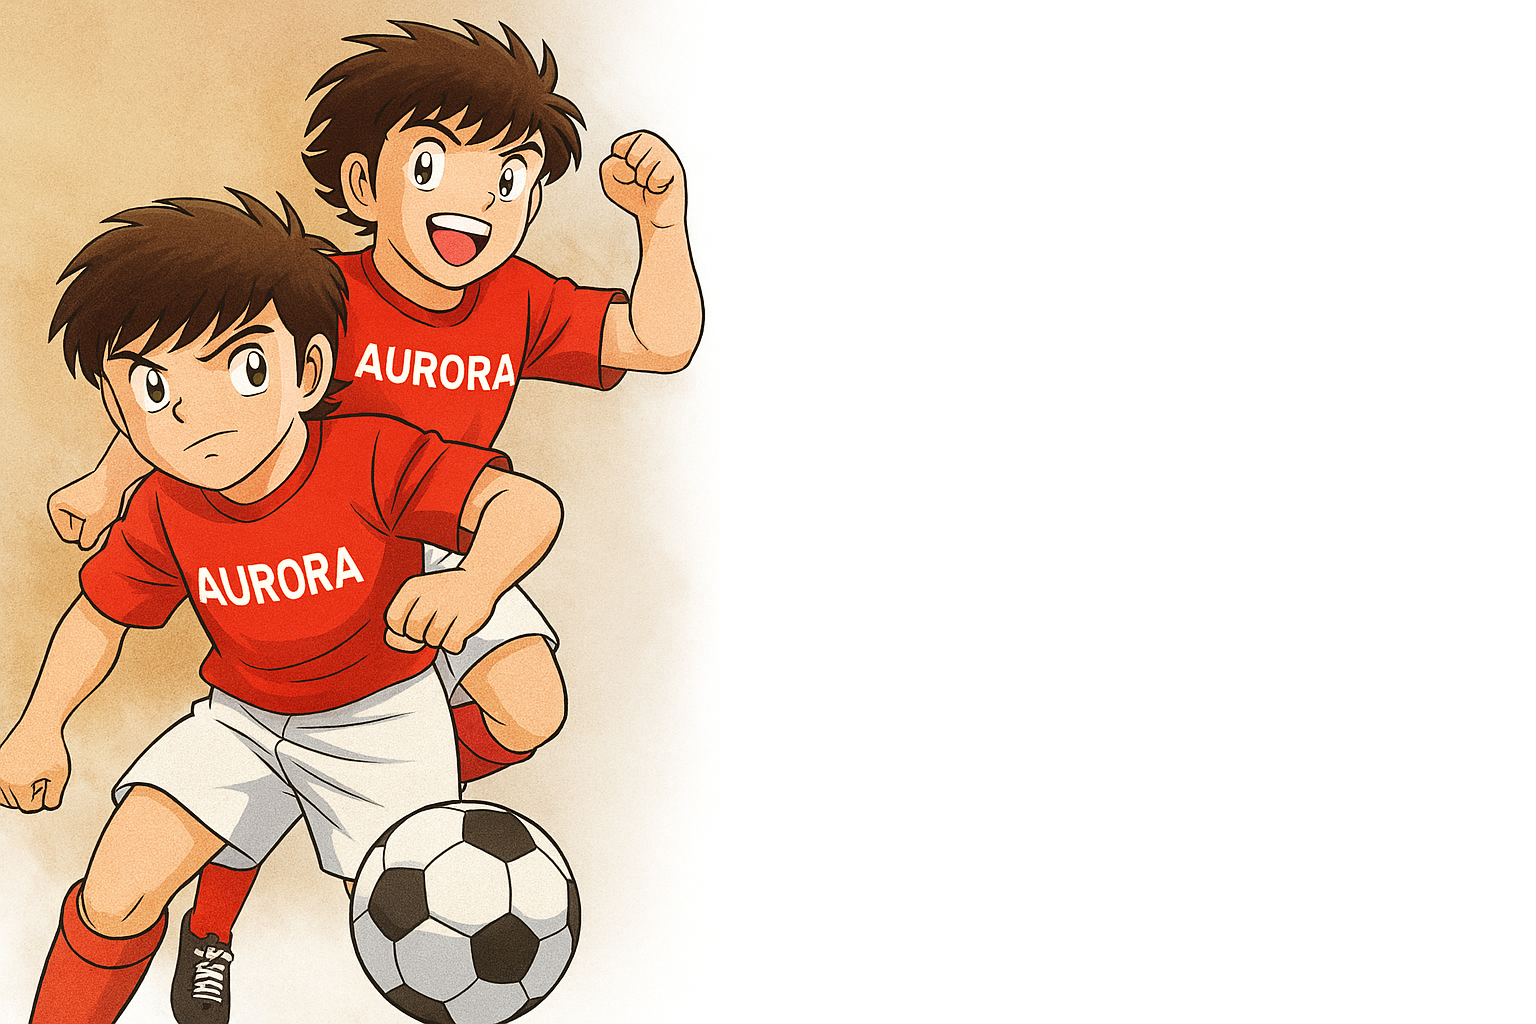
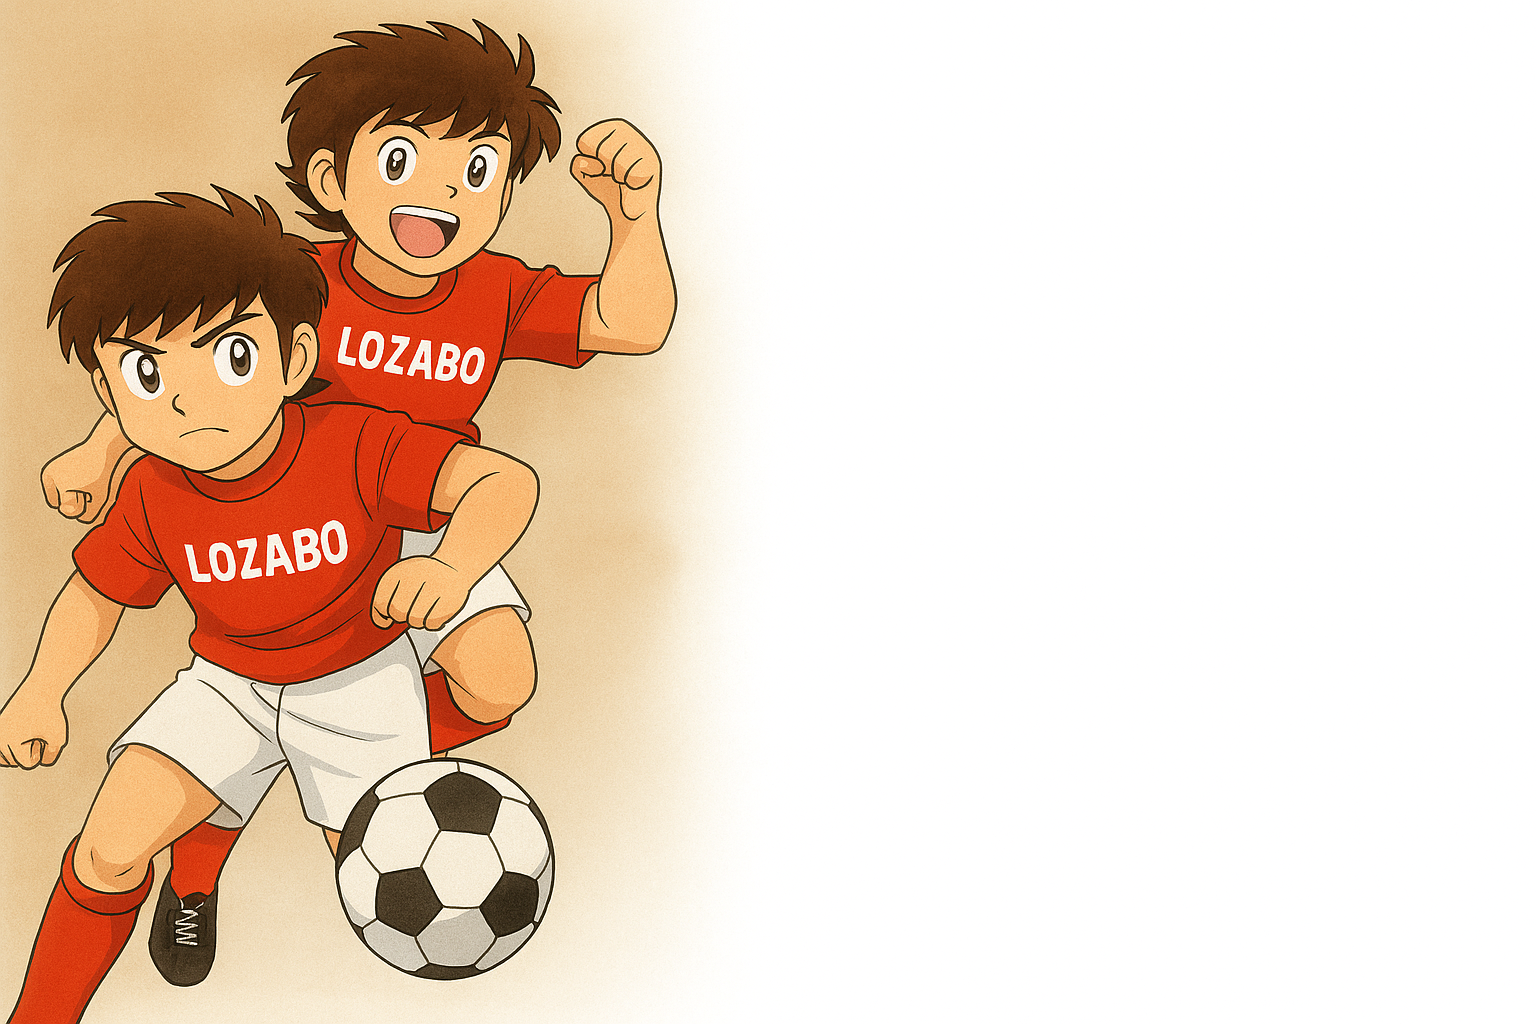
update content

Changed region(s): [[0.0, 0.0, 0.4688, 1.0], [0.0312, 0.0312, 0.125, 0.1562]]

diff --git a/index.html b/index.html
@@ -1,64 +1,75 @@
 <!DOCTYPE html>
 <html lang="it-IT">
 <head>
-    <meta charset="UTF-8">
-    <meta name="viewport" content="width=device-width, initial-scale=1, maximum-scale=1">
-    <title>Aurora Milano – Portale Documenti</title>
-    <link rel="stylesheet" type="text/css" href="./css/main.css">    
+  <meta charset="UTF-8">
+  <meta name="viewport" content="width=device-width, initial-scale=1">
+  <title>Lozabo Milano – Portale Documenti</title>
+  <link rel="stylesheet" href="./css/main.css">
 </head>
 
 <body>
 <div class="container">
 
-    <!-- HEADER -->
-    <header>
-        <h1>Aurora Milano</h1>
-        <p class="intro">Portale documenti, materiali e comunicazioni interne</p>
-    </header>
+  <header>
+    <h1>Lozabo Milano</h1>
+    <p class="intro">Portale documenti, materiali e comunicazioni interne</p>
+  </header>
 
-    <!-- MAIN -->
-    <main>
+  <main>
+    <h2 class="main-title">Sezioni del Portale</h2>
 
-        <h2 class="main-title">Sezioni del Portale</h2>
+    <!-- SAFEGUARDING -->
+    <section class="section-box">
+      <h3>Safeguarding</h3>
+      <ul class="link-list">
+        <li><a href="/safeguarding-referente.html">I riferimenti del Referente</a></li>
+        <li><a href="/safeguarding-regolamento.html">Regolamento interno</a></li>
+        <li><a href="/safeguarding-codice-condotta.html">Codice di condotta</a></li>
+        <li><a href="/modello-organizzativo.html">Modello Organizzativo lozabo Milano</a></li>
+        <li><a href="/codice-etico.html">Codice Etico adottato</a></li>
+        <li><a href="/segnalazioni.html">Materiali per la segnalazione</a></li>
+      </ul>
+    </section>
 
-        <!-- SAFEGUARDING -->
-        <section class="section-box">
-            <h3>Safeguarding</h3>
-            <ul class="link-list">
-                <li><a href="/safeguarding-documenti.html">I riferimenti del Referente</a></li>
-                <li><a href="/safeguarding-documenti.html">Regolamento interno</a></li>
-                <li><a href="/safeguarding-documenti.html">Codice di condotta</a></li>
-                <li><a href="/safeguarding-documenti.html">Il Modello Organizzativo adottato</a></li>
-                <li><a href="/safeguarding-documenti.html">Il Codice Etico adottato</a></li>
-                <li><a href="/safeguarding-documenti.html">Materiali per la segnalazione</a></li>
-            </ul>
-        </section>
+    <!-- DOCUMENTI ALLENATORI -->
+    <section class="section-box">
+      <h3>Documenti Allenatori</h3>
+      <ul class="link-list">
+        <li><a href="/documenti-allenatori.html">Documenti Allenatori</a></li>
+        <li><a href="/newsletter-allenatori.html">Newsletter Animatori</a></li>
+        <li><a href="/shorts-allenatori.html">Shorts Allenatori</a></li>
+      </ul>
+    </section>
 
-        <!-- DOCUMENTI ALLENATORI -->
-        <section class="section-box">
-            <h3>Documenti Allenatori</h3>
-            <ul class="link-list">
-                <li><a href="/materiali-bambini.html">Documenti Bambini</a></li>
-                <li><a hreF="/newsletter-allenatori.html">Newsletter Allenatori</a></li>
-                <li><a href="/shorts-allenatori.html">Shorts Allenatori</a></li>
-            </ul>
-        </section>
+    <!-- DOCUMENTI ATLETI -->
+    <section class="section-box">
+      <h3>Documenti Atleti</h3>
+      <ul class="link-list">
+        <li><a href="/documenti-atleti.html">Documenti Atleti</a></li>
+        <li><a href="/newsletter-atleti.html">Newsletter Atleti</a></li>
+        <li><a href="/shorts-atleti.html">Shorts Atleti</a></li>
+      </ul>
+    </section>
 
-        <!-- DOCUMENTI ATLETI -->
-        <section class="section-box">
-            <h3>Documenti Atleti</h3>
-            <ul class="link-list">
-                <li><a href="/documenti-atleti.html">Documenti Atleti</a></li>
-                <li><a href="/videopillole-atleti.html">Videopillole per Atleti</a></li>
-                <li><a href="/shorts-atleti.html">Shorts Atleti</a></li>
-            </ul>
-        </section>
+    <!-- lozabo MILANO -->
+    <section class="section-box">
+      <h3>lozabo Milano</h3>
+      <ul class="link-list">
+        <li><a href="/newsletter-lozabo.html">Newsletter lozabo</a></li>
+        <li><a href="/fotogallery.html">Fotogallery</a></li>
+      </ul>
+    </section>
 
-        <!-- DOCUMENTI AURORA -->
-        <section class="section-box">
-        </section>
+  </main>
 
-    </main>
+  <footer>
+    <p>
+      Contatti:
+      <a href="mailto:segreteria@lozabomilano.it">segreteria@lozabomilano.it</a>
+    </p>
+  </footer>
+
 </div>
 </body>
 </html>
+``

diff --git a/newsletter-aurora.html b/newsletter-aurora.html
@@ -1,43 +1,40 @@
 <!DOCTYPE html>
 <html lang="it-IT">
 <head>
-    <meta charset="UTF-8">
-    <meta name="viewport" content="width=device-width, initial-scale=1, maximum-scale=1">
-    <title>Newsletter Aurora – Aurora Milano</title>
-    <link rel="stylesheet" type="text/css" href="./css/main.css">    
-    <link rel="stylesheet" type="text/css" href="./css/newsletter-aurora.css">
+  <meta charset="UTF-8">
+  <meta name="viewport" content="width=device-width, initial-scale=1">
+  <title>Newsletter lozabo – lozabo Milano</title>
+  <link rel="stylesheet" href="./css/main.css">
+  <link rel="stylesheet" href="./css/newsletter-lozabo.css">
 </head>
 
 <body>
-
 <div class="container">
 
-    <header>
-        <h1>Newsletter Aurora</h1>
-        <p class="intro">Comunicazioni generali della società Aurora Milano</p>
-    </header>
+  <header>
+    <h1>Newsletter lozabo</h1>
+    <p class="intro">Comunicazioni generali della società lozabo Milano</p>
+  </header>
 
-    <main>
+  <main>
+    <section class="section-box newsletter-lozabo-box">
+      <h3>Archivio Newsletter</h3>
+      <ul class="link-list">
+        <li>/newsletter/pdf/lozabo-01.pdf</li>
+        <li>/newsletter/pdf/lozabo-02.pdflozabo 02 – Eventi e aggiornamenti</a></li>
+        <li>/newsletter/pdf/lozabo-03.pdf</li>
+        <li>/newsletter/pdf/lozabo-04.pdflozabo 04 – Comunicazioni ufficiali</a></li>
+      </ul>
+    </section>
+  </main>
 
-        <section class="section-box newsletter-aurora-box">
-            <h3>Archivio Newsletter</h3>
-            <ul class="link-list">
-                <li><a href="/newsletter/pdf/aurora-01.pdf">Aurora 01 – Comunicazioni societarie</a></li>
-                <li><a href="/newsletter/pdf/aurora-02.pdf">Aurora 02 – Eventi e aggiornamenti</a></li>
-                <li><a href="/newsletter/pdf/aurora-03.pdf">Aurora 03 – Informative operative</a></li>
-                <li><a hreF="/newsletter/pdf/aurora-04.pdf">Aurora 04 – Comunicazioni ufficiali</a></li>
-            </ul>
-        </section>
-
-    </main>
-
-    <footer>
-        <p>Per informazioni:
-            mailto:segreteria@auroramilano.itsegreteria@auroramilano.it</a>
-        </p>
-    </footer>
+  <footer>
+    <p>
+      Contatti:
+      segreteria@lozabomilano.itsegreteria@lozabomilano.it</a>
+    </p>
+  </footer>
 
 </div>
-
 </body>
 </html>

diff --git a/videopillole-atleti.html b/videopillole-atleti.html
@@ -3,7 +3,7 @@
 <head>
     <meta charset="UTF-8">
     <meta name="viewport" content="width=device-width, initial-scale=1, maximum-scale=1">
-    <title>Videopillole per Atleti - ASD Aurora Milano</title>
+    <title>Videopillole per Atleti - ASD lozabo Milano</title>
     <link rel="stylesheet" href="css/videopillole-atleti.css">
 </head>
 <body>
@@ -203,7 +203,7 @@
         </main>
 
         <footer>
-            <p>Hai suggerimenti per nuove videopillole? <a href="mailto:staff@auroramilano.it">staff@auroramilano.it</a></p>
+            <p>Hai suggerimenti per nuove videopillole? <a href="mailto:staff@lozabomilano.it">staff@lozabomilano.it</a></p>
         </footer>
     </div>
 </body>

diff --git a/safeguarding-documenti.html b/safeguarding-documenti.html
@@ -3,7 +3,7 @@
 <head>
     <meta charset="UTF-8">
     <meta name="viewport" content="width=device-width, initial-scale=1, maximum-scale=1">
-    <title>Documenti Safeguarding - ASD Aurora Milano</title>
+    <title>Documenti Safeguarding - ASD lozabo Milano</title>
     <link rel="stylesheet" href="css/safeguarding-documenti.css">
 </head>
 <body>
@@ -81,7 +81,7 @@
         </main>
 
         <footer>
-            <p>Per informazioni: <a href="mailto:safeguarding@auroramilano.it">safeguarding@auroramilano.it</a></p>
+            <p>Per informazioni: <a href="mailto:safeguarding@lozabomilano.it">safeguarding@lozabomilano.it</a></p>
         </footer>
     </div>
 </body>

diff --git a/newsletter-allenatori.html b/newsletter-allenatori.html
@@ -3,7 +3,7 @@
 <head>
     <meta charset="UTF-8">
     <meta name="viewport" content="width=device-width, initial-scale=1, maximum-scale=1">
-    <title>Newsletter Allenatori – Aurora Milano</title>
+    <title>Newsletter Allenatori – lozabo Milano</title>
     <link rel="stylesheet" type="text/css" href="./css/main.css">    
     <link rel="stylesheet" type="text/css" href="./css/newsletter-allenatori.css">
 </head>
@@ -34,7 +34,7 @@
 
     <footer>
         <p>Per informazioni:
-            mailto:segreteria@auroramilano.itsegreteria@auroramilano.it</a>
+            mailto:segreteria@lozabomilano.itsegreteria@lozabomilano.it</a>
         </p>
     </footer>
 

diff --git a/documenti-atleti.html b/documenti-atleti.html
@@ -3,7 +3,7 @@
 <head>
     <meta charset="UTF-8">
     <meta name="viewport" content="width=device-width, initial-scale=1, maximum-scale=1">
-    <title>Documenti Atleti – Aurora Milano</title>
+    <title>Documenti Atleti – lozabo Milano</title>
     <link rel="stylesheet" type="text/css" href="./css/main.css">    
     <link rel="stylesheet" type="text/css" href="./css/documenti-atleti.css">
 </head>
@@ -45,7 +45,7 @@
     <footer>
         <p>
             Per informazioni:
-            mailto:segreteria@auroramilano.itsegreteria@auroramilano.it</a>
+            mailto:segreteria@lozabomilano.itsegreteria@lozabomilano.it</a>
         </p>
     </footer>
 

diff --git a/newsletter-genitori.html b/newsletter-genitori.html
@@ -3,7 +3,7 @@
 <head>
     <meta charset="UTF-8">
     <meta name="viewport" content="width=device-width, initial-scale=1, maximum-scale=1">
-    <title>Newsletter Genitori – Aurora Milano</title>
+    <title>Newsletter Genitori – lozabo Milano</title>
     <link rel="stylesheet" type="text/css" href="./css/main.css">    
     <link rel="stylesheet" type="text/css" href="./css/newsletter-genitori.css">
 </head>
@@ -33,7 +33,7 @@
 
     <footer>
         <p>Per informazioni:
-            mailto:segreteria@auroramilano.itsegreteria@auroramilano.it</a>
+            mailto:segreteria@lozabomilano.itsegreteria@lozabomilano.it</a>
         </p>
     </footer>
 

diff --git a/materiali-bambini.html b/materiali-bambini.html
@@ -3,7 +3,7 @@
 <head>
     <meta charset="UTF-8">
     <meta name="viewport" content="width=device-width, initial-scale=1, maximum-scale=1">
-    <title>Materiali Bambini – Aurora Milano</title>
+    <title>Materiali Bambini – lozabo Milano</title>
     <link rel="stylesheet" type="text/css" href="./css/main.css">    
     <link rel="stylesheet" type="text/css" href="./css/materiali-bambini.css">
 </head>
@@ -40,7 +40,7 @@
 
     <footer>
         <p>Per informazioni:
-            mailto:segreteria@auroramilano.itsegreteria@auroramilano.it</a>
+            mailto:segreteria@lozabomilano.itsegreteria@lozabomilano.it</a>
         </p>
     </footer>
 

diff --git a/newsletter-atleti.html b/newsletter-atleti.html
@@ -3,7 +3,7 @@
 <head>
     <meta charset="UTF-8">
     <meta name="viewport" content="width=device-width, initial-scale=1, maximum-scale=1">
-    <title>Newsletter Atleti – Aurora Milano</title>
+    <title>Newsletter Atleti – lozabo Milano</title>
     <link rel="stylesheet" type="text/css" href="./css/main.css">    
     <link rel="stylesheet" type="text/css" href="./css/newsletter-atleti.css">
 </head>
@@ -33,7 +33,7 @@
 
     <footer>
         <p>Per informazioni:
-            mailto:segreteria@auroramilano.itsegreteria@auroramilano.it</a>
+            mailto:segreteria@lozabomilano.itsegreteria@lozabomilano.it</a>
         </p>
     </footer>
 

diff --git a/shorts-allenatori.html b/shorts-allenatori.html
@@ -3,7 +3,7 @@
 <head>
     <meta charset="UTF-8">
     <meta name="viewport" content="width=device-width, initial-scale=1, maximum-scale=1">
-    <title>Shorts Allenatori – Aurora Milano</title>
+    <title>Shorts Allenatori – lozabo Milano</title>
     <link rel="stylesheet" href="./css/main.css">
     <link rel="stylesheet" href="./css/shorts-allenatori.css">
 </head>
@@ -41,7 +41,7 @@
     <footer>
         <p>
             Per informazioni:
-            mailto:segreteria@auroramilano.itsegreteria@auroramilano.it</a>
+            mailto:segreteria@lozabomilano.itsegreteria@lozabomilano.it</a>
         </p>
     </footer>
 </div>

diff --git a/shorts-atleti.html b/shorts-atleti.html
@@ -3,7 +3,7 @@
 <head>
     <meta charset="UTF-8">
     <meta name="viewport" content="width=device-width, initial-scale=1, maximum-scale=1">
-    <title>Shorts Allenatori – Aurora Milano</title>
+    <title>Shorts Allenatori – lozabo Milano</title>
     <link rel="stylesheet" href="./css/main.css">
     <link rel="stylesheet" href="./css/shorts-allenatori.css">
 </head>
@@ -41,7 +41,7 @@
     <footer>
         <p>
             Per informazioni:
-            mailto:segreteria@auroramilano.itsegreteria@auroramilano.it</a>
+            mailto:segreteria@lozabomilano.itsegreteria@lozabomilano.it</a>
         </p>
     </footer>
 </div>

diff --git a/css/newsletter-aurora.css b/css/newsletter-aurora.css
@@ -1,19 +1,19 @@
-/* NEWSLETTER AURORA – CSS DEDICATO */
+/* NEWSLETTER lozabo – CSS DEDICATO */
 
-.newsletter-aurora-box h3 {
+.newsletter-lozabo-box h3 {
     color: #cc3a3a;
     font-weight: 700;
 }
 
-.newsletter-aurora-box ul li {
+.newsletter-lozabo-box ul li {
     margin: 14px 0;
 }
 
-.newsletter-aurora-box ul li a {
+.newsletter-lozabo-box ul li a {
     font-size: 1.08em;
 }
 
-.newsletter-aurora-box ul li a:hover {
+.newsletter-lozabo-box ul li a:hover {
     padding-left: 6px;
     text-decoration: underline;
 }
